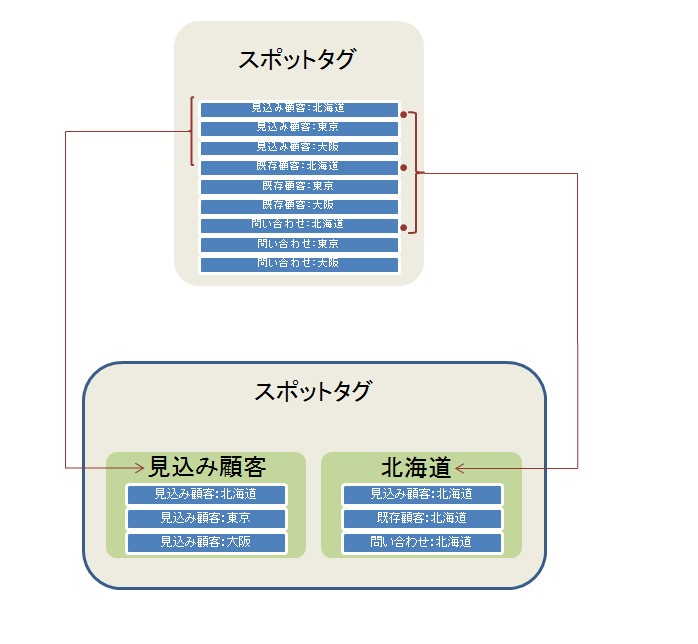
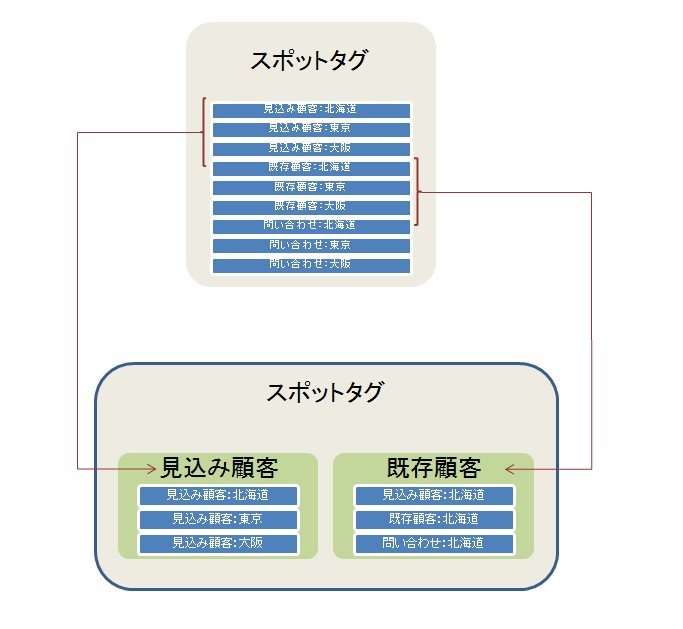
Fixed contents.

Changed region(s): [[0.0922, 0.0302, 0.8609, 0.9666], [0.3382, 0.0604, 0.5534, 0.1208], [0.7994, 0.3021, 0.8302, 0.3323]]

diff --git a/searchindex.js b/searchindex.js
@@ -1,1 +1,1 @@
-Search.setIndex({envversion:42,terms:{"\u5f62\u5f0f":1,"/android":[],"\u53cd\u6620":[1,5],"\u51fa\u6765":5,"\u30fb\u30e9\u30b8\u30aa\u30dc\u30bf\u30f3":5,"\u8a18\u5165":4,"\u30d2\u30c3\u30c8":3,"::":[],"\u6761\u4ef6":[1,5,4],alt:[],"\u3067\u3057":[1,3],"\u30bb\u30ad\u30e5\u30ea\u30c6\u30a3":4,"\u7aef\u672b":[2,1,5,4],"\u53d7\u4fe1":5,"\u901a\u77e5":[],"\u901a\u4fe1":[1,5,4],"\u4e00\u822c":[2,1,3,4,5],"\u30bb\u30c3\u30c8":1,"\u30aa\u30ec\u30f3\u30b8":1,"\u7a7a\u767d\u884c":4,"\u524a\u9664":[2,1,3,4,5],"\u3067\u304d":[2,1,3,4,5],"\u5e0c\u671b":2,"\u6700\u7d42":4,"\u9632\u3050":1,"\u4e0b\u66f8\u304d":5,"\u500b\u5225":[5,4],"\u524a\u6e1b":5,"\u8fbc\u307f":5,"\u73fe\u5834":2,"\u4ed5\u7d44\u307f":1,"\u6b63\u5e38":4,"\u77e2\u5370":5,"\u4e0d\u8db3":4,"\u4f11\u61a9":2,"\u30e1\u30fc\u30eb\u30a2\u30c9\u30ec\u30b9":5,"\u30a4\u30f3\u30b9\u30c8\u30fc\u30eb":5,"\u72b6\u6cc1":4,"\u30d5\u30a3\u30fc\u30c1\u30e3\u30fc":5,"\u78ba\u8a8d\u304f":1,"--":[2,1],"\u30ab\u30ec\u30f3\u30c0\u30fc":4,"\u30e1\u30cb\u30e5\u30fc":[1,3,4,5],"\u304a\u3088\u3073":[1,4],"\u5909\u308f\u308a":1,"\u81ea\u52d5\u66f4":1,"\u6b8b\u308a":3,"\u30d4\u30c3\u30ab\u30fc":4,"\u30aa\u30d7\u30b7\u30e7\u30f3":1,"\u5e83\u544a":4,"\u30d6\u30e9\u30a6\u30b6":[1,4],"\u884c\u3048\u308b":[],"\u89e3\u9664":[1,5,4],"\u304a\u3044":1,"\u7b87\u6240":[1,4],"\u5909\u308f\u3063":2,"\u88dc\u5b8c":4,"1\u53f0":2,"\u5b9f\u65bd":3,"\u7d4c\u904e":[1,4],"\u30bf\u30d6":[1,5],"\u542b\u307e\u308c":5,"\u6700\u65b0":[],"\u8a2a\u554f":[2,1,3],"\u30ad\u30e3\u30ea\u30a2":5,"\u81ea\u5b85":4,"\u30e1\u30fc\u30eb":4,"\u8fd1\u3044\u9806":3,"\u304a\u4f1d\u3048":1,"\u5224\u65ad":[5,4],"\u521d\u56de":5,"\u65b0csv":1,punch:[2,5],"\u55b6\u696d":[2,1],"\u9069\u7528":4,"\u7d0d\u54c1":2,"\u4fc3\u3057":3,"\u30a2\u30ab\u30a6\u30f3\u30c8":[2,5,4],"\u306b\u95a2\u3059\u308b":1,"\u30dc\u30bf\u30f3\u30a2\u30a4\u30b3\u30f3":5,"\u305a\u306b":4,"\u305a\u3064":1,"\u63d0\u4f9b":2,"\u629e\u72b6":4,"\u306b\u95a2\u3057":1,"\u300c\u79d2":1,"\u3067\u3082":[],"\u53d6\u5f97":[1,5,4],"\u30b9\u30e0\u30fc\u30ba":3,"\u64ec\u4f3c":5,"\u5411\u4e0a":4,"\u8d85\u3048":1,"\u5fd8\u308c":3,"\u30b7\u30e7\u30fc\u30c8\u30ab\u30c3\u30c8\u30dc\u30bf\u30f3":[5,4],"\u30c1\u30a7\u30c3\u30af\u30dc\u30c3\u30af\u30b9":5,"\u521d\u671f":[2,5,4],"\u30c7\u30b6\u30a4\u30f3":[1,4],"\u3057\u307e\u3063":[3,5],"\u9014\u4e2d":5,"\u30ed\u30b1\u30fc\u30b7\u30e7\u30f3":5,"\u5225\u753b":5,"\u65e5\u6642":1,"/groupsetting":[],"\u30de\u30c3\u30d7":5,"\u4ee5\u964d":[1,4],"\u30a2\u30cb\u30e1\u30fc\u30b7\u30e7\u30f3":5,"\u3057\u307e\u3057":[5,4],"\u5730\u70b9":[3,4,5],"\u305f\u304a\u77e5\u3089":1,"\u30b9\u30dd\u30c3\u30c8":[],"\u9023\u7d9a":4,"\u306b\u307e\u308c":4,"\u3057\u307e\u3046":[5,4],iphone:4,"\u3057\u307e\u3044":5,"\u30ab\u30b9\u30bf\u30de\u30fc\u30b5\u30fc\u30d3\u30b9":1,"\u60c5\u5831":[],"\u306a\u3089":[1,5],"\u30b7\u30e3\u30f3\u30d1\u30f3":5,"\u3059\u308b":[2,1,3,4,5],"\uff11\u30f6\u6708":4,"\u51e6\u7406":[1,5,4],"\u30c1\u30e5\u30fc\u30cb\u30f3\u30b0":4,"\u843d\u3061\u308b":5,"\u304a\u77e5\u3089\u305b":5,"\u3053\u3068":[2,1,5,4],"\u3053\u306e":5,"\u5225\u9014":[2,1],"\u30d5\u30c3\u30bf\u30fc":1,"\u4ed8\u8fd1":2,"\u30e6\u30fc\u30b6\u30fc\u30ed\u30b0\u30a4\u30f3id":[2,1],"\u5f79\u8077":5,"\u4ed5\u69d8":[3,4],"\u6709\u52b9":5,"\u62bc\u3057":4,"\u898b\u3084\u3059\u3044":1,"\u62bc\u3055":2,"\u306f\u3069":1,"\u4ee5\u4e0b":[1,3,4],"\u4ee5\u4e0a":4,"\u30a2\u30a4\u30b3\u30f3":[5,4],"\u884c\u308f":5,"\u30b3\u30d4\u30fc":1,"\u8d77\u52d5":[5,4],"\u3060\u3051":[2,3,5],"\u79fb\u52d5\u7dda":[1,5],"\u3044\u308b":[2,1,3,4,5],"\u7de8\u96c6":[2,1,3,4,5],"\u53e4\u3044":5,"\u30a2\u30af\u30c6\u30a3\u30d6":[2,5],"\u4e2d\u5fc3":[3,4,5],nexus:5,"\u30ab\u30ca":[1,3,4,5],"\u9032\u884c\u9806":[2,5],"\u30d4\u30f3":[1,5,4],"\u30af\u30e9\u30c3\u30b7\u30e5":[5,4],"\u9001\u4fe1":[1,5,4],"\u5206\u304b\u308b":1,"\uff11\u3064":[2,1],"\u30d1\u30d5\u30a9\u30fc\u30de\u30f3\u30b9":4,"\u958b\u767a":1,"\u4e00\u5b9a":[2,1,4],"\u3059\u3050":[3,5],"\u30d0\u30fc\u30b8\u30e7\u30f3\u30a2\u30c3\u30d7":[3,4,5],"\u30e1\u30f3\u30d0":1,"\u6301\u305f":2,"\u8aad\u3080":4,"\u884c\u3046":5,"\u884c\u3044":[1,5],"\u6301\u3064":2,"\u30b9\u30dd\u30c3\u30c8\u30ea\u30b9\u30c8":5,"\u540d\u524d":[3,5],"\u95a2\u9023":[2,5],"\u30fb\u30e1\u30f3\u30d0\u30fc":5,"\u3059\u3079":[2,5],"\u512a\u5148":3,"\u30ab\u30b9\u30bf\u30de\u30fc\u30b5\u30dd\u30fc\u30c8":2,"\u66f8\u4f5c":4,"\u3053\u308c":[1,3],"\u7121\u6599":5,"\u6b63\u78ba":1,csv:[],"\u7d42\u4e86":[2,5],"\u4e26\u3073\u9806":1,"\u518d\u8aad":5,"\u62d2\u5426":5,"\u96c6\u7d04":1,"\u6642\u9593":[2,1,4],"\u4e0b\u3055\u3044":1,"\u30cf\u30a4\u30d5\u30f3":5,"\u7d5e\u308a\u8fbc\u307f":5,"\u30a2\u30a4\u30c6\u30e0":5,"\u81ea\u52d5":[2,1,5,4],"\u6240\u5728":[1,3,4,5],"\u30da\u30fc\u30b8":1,"\u30c1\u30a7\u30c3\u30af\u30a4\u30f3":[],"\u901a\u5e38":[2,5],"\u30a4\u30f3\u30dd\u30fc\u30c8":1,"\u8a18\u61b6":1,"\u518d\u5165":4,"\u81ea\u793e":[2,1,5,4],"\u643a\u5e2f":4,"\u305f\u3057":[],"\u82f1\u8a9e":5,"\u30b9\u30dd\u30c3\u30c8\u30d4\u30f3":5,"\u305f\u304b":2,"\u5e83\u3052\u308b":1,"\u305f\u3044":3,"\u65b0ui":4,"\u6d88\u8cbb":2,"\u90f5\u4fbf":4,"\u30fb\u30fb\u30fb":3,"\uff11\u4ef6":1,"\u308c\u308b":[2,1,3,4,5],"\u30b9\u30af\u30ed\u30fc\u30eb":[5,4],"\u540c\u671f":[1,5,4],"\u96fb\u8a71":[3,4,5],"\u5834\u6240\u7121":5,"\u4f75\u305b":[5,4],"\u52d5\u4f5c":2,"\u5f53\u6a5f\u80fd":2,"\u30aa\u30d5\u30e9\u30a4\u30f3":[1,4],"\u5897\u3048":1,"\u6271\u3044":5,"\u30b9\u30c6\u30fc\u30bf\u30b9":[],"\u4e0d\u8981":4,"\u5168\u3066":5,"\u8d85\u3048\u308b":3,"\u7dcf\u79f0":2,gpspunch:2,"\u4e00\u3064":[2,1,5],"\u66f4\u65b0":[1,5,4],"_img":[],"\u3068\u3057\u3066":4,"\u597d\u304d":2,"\u518d\u691c":[5,4],"\u767b\u9332":[],"\u3053\u3061\u3089":1,"\u5897\u3084":[1,5],"\u3002\uff08":[1,5,4],"\u3002\uff09":[1,5,4],"\u30e9\u30d9\u30eb":4,"\u753b\u9762":[],"\u518d\u5ea6":5,"\u30d5\u30a1\u30a4\u30eb":1,"\u7e26\u306b":1,"\u6240\u5c5e":[2,1],"\u672a\u8a2d\u5b9a":1,"\u3042\u3044\u307e\u3044":1,"\u7def\u5ea6":1,"\u8a73\u7d30":[],"\u300cnull":5,"\u305f\u3060\u304d":[],"\u5927\u9805":1,"(new":1,"\u914d\u7f6e":1,"\u30b9\u30dd\u30c3\u30c8\u30bf\u30b0":[1,5,4],"\u5b58\u5728":[2,3,4,5],"\u73fe\u72b6":3,"\u5c02\u7528":2,"\u305f\u3089":[1,5],"\u30b7\u30e7\u30fc\u30c8\u30ab\u30c3\u30c8":5,"\u4eba\u6570":5,"\u305f\u3081":[1,3,5],"\u5730\u56f3\u4e0a":1,"\u30b3\u30fc\u30c9":[1,3],"\u9000\u52e4":[2,5],"\u66f8\u540d":5,"\u8a31\u5bb9":1,googlemapsapi:1,"\u4e00\u90e8":[1,5,4],"\u30ab\u30e1\u30e9\u30a2\u30a4\u30b3\u30f3":5,"\u975e\u8868":[1,4],"\u53ef\u80fd":[2,1,3,4,5],"\u30bf\u30a4\u30e0\u30be\u30fc\u30f3":[5,4],"\u30b5\u30a4\u30c8":[],nodata:5,"\u30eb\u30fc\u30c8":[2,1,5,4],"\u8aa4\u5dee":4,"\u66f8\u7de8":4,"\u30d6\u30eb\u30fc":5,"1\u30a2\u30ab\u30a6\u30f3\u30c8":2,"\u8aac\u660e":1,"\u4e00\u610f":2,"\u7d71\u4e00":5,"\u975e\u540c":1,"\u30ed\u30b0\u30a2\u30a6\u30c8":[1,5],"\u30e9\u30f3\u30c9\u30de\u30fc\u30af":[3,4,5],"\u9078\u3073":3,"\u30d5\u30a9\u30c8\u30e9\u30a4\u30d6\u30e9\u30ea":4,"\u78ba\u8a8d":[3,4,5],"\u30b5\u30dd\u30fc\u30c8":2,"\u5f85\u3064":1,"\u4fee\u6b63":[],"\u5207\u308a":[5,4],"\u53f3\u6a2a":1,"\u884c\u52d5":[2,1,5,4],"\u30b7\u30f3\u30b0\u30eb\u30b3\u30fc\u30c6\u30fc\u30b7\u30e7\u30f3":1,"\u8aad\u307f\u8fbc\u3081":4,"\u8a2d\u5b9a":[],gps:[5,4],"\u306a\u304a":1,"\u7d10\u3065\u3051\u308b":2,"\u958b\u3044":4,"\u308c\u307e\u305b":4,"\u901f\u5ea6":1,"\u305d\u306e\u5f8c":5,"\u3069\u3061\u3089\u304b":1,"\u304b\u307e":1,"\u307e\u304f\u3044\u304b":5,"\u65b0\u898f\u767b":4,ipad:4,"\u89e3\u6d88":1,aaa:[],"\u7a7a\u767d":1,"12\u6708":1,"\u9078\u629e":[],"\u9593\u9694":[2,5],"\u5831\u544a\u66f8":[],"\u8a18\u9332":[2,1,5,4],"\u7d50\u3070":2,"\u72b6\u614b":[1,3,4],"\u4e0a\u8a18":[1,3,5],"\u66ff\u308f\u3089":5,"\u8a72\u5f53":3,"\u4e00\u898b":5,"\u30a8\u30e9\u30fc":[1,5,4],"\u3044\u305f":1,"\u30c8\u30c3\u30d7\u30da\u30fc\u30b8":1,"\u5730\u540d":3,"\u5834\u5408":[],"\u5e83\u3052":1,"null":4,"\u304b\u3069\u3046":[2,1,3,4],"\u30ea\u30b9\u30c8":[1,5,4],"\u307e\u3067":[2,1,3,4,5],"\u307e\u3059":[],"\u307e\u305b":[2,1,3],"\u4e00\u89a7":[],"\u66f8\u7d4c":4,"\u307e\u305f":[1,5,4],"\u304b\u3089":[],"\u767b\u8a18":4,"\u307e\u3057":[1,3,4,5],"\u7279\u5b9a":[2,5,4],"\u30b9\u30dd\u30c3\u30c8\u30a4\u30f3\u30dd\u30fc\u30c8":1,"\u5927\u5909":5,"\u30db\u30fc\u30e0\u30a2\u30a4\u30b3\u30f3":[],"\u30d0\u30c3\u30af\u30b0\u30e9\u30a6\u30f3\u30c9":[1,4],"\u51fa\u529b":[1,3],"\u6a5f\u80fd":[],"\u30a2\u30c3\u30d7\u30c7\u30fc\u30c8":[],"\u3089\u308c":5,"\u3060\u3055\u3044":[2,1,3,5],"\u5408\u308f\u305b":2,"\u5f53\u65e5":1,"\u9577\u3044":[5,4],"\u79fb\u52d5":[2,5,4],url:[5,4],"\u96fb\u91cf":2,"\u30b9\u30da\u30fc\u30b9":1,"\u5d29\u308c\u308b":4,"\u30a8\u30e9\u30fc\u30e1\u30c3\u30bb\u30fc\u30b8":5,"\u767a\u751f":5,"\u624b\u52d5":4,"\u64ae\u5f71":5,"\u30aa\u30fc\u30d0\u30fc":5,"\u305d\u306e\u9593":1,"\u672b\u5c3e":1,"\u30b9\u30dd\u30c3\u30c8\u30bf\u30b0\u30b0\u30eb\u30fc\u30d7":1,"\u672a\u5831":4,"\u5fc5\u9808":[5,4],"\u30b9\u30bf\u30c3\u30d5":2,"\u30ab\u30e1\u30e9":5,"\u3057\u304b":[2,3],"\u30de\u30eb\u30c1\u30a2\u30ab\u30a6\u30f3\u30c8":[2,5,4],"\u6210\u529f":4,"\u4ef6\u6570":1,"\u62c5\u5f53\u8005":[2,1,5,4],"\u4e00\u822c\u6a29\u9650":4,"\u73fe\u8c61":5,"\u8ffd\u52a0":[2,1,3,4,5],"\u3057\u305f":1,"\u5bfe\u8c61":[1,3],"\u5206\u3051":5,"\u3057\u3066":5,"\u30db\u30fc\u30e0":[3,4,5],"\u6700\u5927":[3,4,5],"\u30bf\u30a4\u30c8\u30eb":5,"\u6642\u306b":2,"\u306a\u308c":2,"\u201d&":4,"\u30c6\u30ad\u30b9\u30c8\u30d5\u30a3\u30fc\u30eb\u30c9":5,"\u306a\u308a":[],"\u306a\u308b":[1,5],"\u306b\u307e\u3068\u3081\u308b":1,"\u65b9\u6cd5":[1,3,5],"\u3092\u3054":1,"\u5206\u304b\u308a":1,"\u30c9\u30c3\u30c8":5,"\u5165\u308c":1,"\u3055\u3089\u306b":1,"\u30fb\u30e1\u30fc\u30eb":4,"\u30d7\u30c3\u30b7\u30e5":5,"\u4eca\u5f8c":3,"\u672a\u8aad":5,"\u624b\u6570":5,"\u305a\u307e\u3068\u3081\u3066":1,"\u62c5\u5f53":[2,1,5,4],"\u53c2\u52a0":[2,5],"\u7121\u3044":4,"\u5229\u7528":[],"\u6c7a\u3081":2,"\u7d50\u679c":[1,3,5],"\u6210\u6642":4,"\u898b\u308b":1,"\u30bf\u30a4\u30d7":1,"\u623b\u308b":[5,4],"\u64cd\u4f5c":[],"\u524d\u56de":4,"\u3064\u3051":5,"\u76ee\u4ee5\u964d":[5,4],"\u540d\u6761":5,"\u8ecc\u8de1":2,"\u4e0b\u90e8":3,"\u5b8c\u4e86":[1,5],"\uff08\u4f8b":[],"\u554f\u3044\u5408\u308f":2,"\u66f8\u8a73":4,"\u65b0\u898f":2,"\u5f93\u6765":[2,1,3],"\u7d39\u4ecb":5,"\u306b\u3064\u3044\u3066":[1,3],"\u4e00\u5ea6":4,"\u7ba1\u7406":[],"\u4f01\u696d":[2,5],"\u3067\u3057\u304b":5,"\u65e5\u4ed8":[1,4],ui:[1,4],"\u305d\u306e":[3,5],"\u7bc4\u56f2":[2,1,3,5],"\u30c0\u30a4\u30a2\u30ed\u30b0":5,"\u914d\u616e":1,"\u50ac\u4fc3":5,"\u66f8\u8a2d":1,"\u76f4\u8fd1":1,"\u4f4d\u7f6e":[],"\u610f\u898b":1,"\u3057\u306a\u304c\u3089":1,"\u3057\u3088":[1,5,4],"\u30b5\u30fc\u30d0\u30fc":5,"\u306a\u3069":[2,1],"\u304a\u308a":3,"\u534a\u5f84":[2,5],"\u500b\u4eba":4,"\u30bf\u30b0":1,"\u696d\u52d9":[2,1],"\u306a\u3063":[2,1,3,5],"\u5206\u5272":1,"\u77e5\u3089":1,img:[],"\u5165\u3063":1,"\u7686\u3055\u307e":3,"\u91d1\u984d":1,"\u306a\u3057":[1,3],"\u4e00\u76ee":1,"\u904e\u53bb":[1,5],"\u30ea\u30e2\u30fc\u30c8":3,"\u88dc\u6b63":4,"\u3068\u307b\u307c":4,"\u306a\u3044":[2,1,5,4],"\u628a\u63e1":2,"\u540c\u69d8":[1,3,5],"\u6b21\u56de":1,"\u6253\u523b":[2,1,3,4,5],"\u4eca\u56de":[1,5,4],"\u5931\u6557":[5,4],"\u533a\u5225":1,"\u4fdd\u5b58":5,"\u3002gps":2,"\u6df7\u5728":3,"\u671f\u5f8c":4,"\u66ff\u3048\u308b":5,"\u4ee5\u524d":[5,4],"\u6d88\u53bb":5,"\u66f8\u6bce":1,"\u30e1\u30e2\u30ea":4,"\u30ec\u30a4\u30a2\u30a6\u30c8":[1,5,4],"\u3068\u3044\u3046":[1,5],"\u7e2e\u5c3a":4,"\u95b2\u89a7":[],")\u300d":[5,4],figure:[],"\u753b\u50cf":[1,3,5],"\u521d\u671f\u5024":1,"\u30d1\u30b9\u30ef\u30fc\u30c9":[5,4],"\u30d5\u30a9\u30fc\u30de\u30c3\u30c8":[],applemap:4,"\u51fa\u52e4\u524d":2,"\u30ba\u30fc\u30e0\u30ec\u30d9\u30eb":5,"\u4ef6\u76ee":1,"\u8981\u671b":1,"\u9077\u79fb":[5,4],"\u672a\u9001\u4fe1":5,"\u554f\u984c":[1,5,4],"\u4e8b\u4f8b":5,"\u5168\u4f53":1,align:[],"\u6700\u9069":5,"\u30bf\u30c3\u30d7":[3,4,5],"\u4f4f\u6240":[1,5,4],"\u5236\u9650":[2,1,5,4],"\u691c\u7d22":[],"\u5165\u529b":[],"|homeicon":[],"\u7c21\u6613":5,"\u540c\u3058":[1,3,4,5],"\u3084\u3059\u304f\u3057":1,"\u5199\u771f":[1,5,4],"\u305b\u304f":2,"\u51fa\u52e4":[2,4],"\u4e00\u4f8b":[],"\u4f7f\u3048\u308b":1,"\u5fc5\u8981":[1,3],"\u5168\u9078":1,jpg:[],"\u30b8\u30aa\u30b3\u30fc\u30c7\u30a3\u30f3\u30b0":5,"\u76f4\u524d":1,googlemapssdk:4,"\u3069\u306e":2,"\u30bf\u30a4\u30df\u30f3\u30b0":[2,3,4],"\u5c65\u6b74":[2,1,3,4,5],id:2,"\u6628\u65e5":4,"\u52b9\u304b":4,"\u30aa\u30d5":5,"\u91cd\u306a\u3063":5,"\u3002)":5,"\u30b9\u30dd\u30c3\u30c8\u30b3\u30fc\u30c9":[5,4],"\u30b0\u30eb\u30fc\u30d7\u30b3\u30fc\u30c9":1,"\u306a\u304f":[2,1,3,5],"\u30aa\u30f3":[2,5],"\u5951\u7d04":[1,5],"\u30a2\u30d7\u30ea":[],"\u4e0d\u5177\u5408":[],"\u30ad\u30fc\u30ef\u30fc\u30c9":3,"\u3069\u3046":2,"\u8005\u540d":5,"\u5b89\u5b9a":4,"\u30e2\u30fc\u30c9":[2,5,4],"\u30fb\u6240\u5728\u5730":4,"\u306b\u3088\u3063\u3066":4,ios:[],"\u306b\u3088\u3089":3,"\u306b\u3088\u308a":[2,1],"\u53c2\u7167":[1,5,4],"\u7d4c\u7531":4,"\u8b66\u544a":1,"\u5834\u6240":[5,4],"\u7167\u6e96":5,"\u305d\u3057\u3066":5,"\u30b9\u30bf\u30a4\u30eb":5,"\u7d10\u4ed8":5,"\u5b89\u5b9a\u6027":4,"\u30b0\u30eb\u30fc\u30d7":[],"\u5404\u7a2e":1,"\u3084\u3059\u304f":[1,3],"\u30b1\u30fc\u30b9":[1,4],"\u30d5\u30a9\u30eb\u30c0":1,"\u6700\u5f8c":1,"\u8868\u793a":[2,1,3,4,5],"\u624b\u6301\u3061":[],"\u898b\u3048":5,googlemaps:[5,4],"\u904b\u7528":3,"\u81ea\u7531":1,"\u5b9a\u6642":2,"\u30ed\u30b8\u30c3\u30af":5,"\u30e9\u30b8\u30aa\u30dc\u30bf\u30f3\u30d5\u30a3\u30fc\u30eb\u30c9":5,"\u7121\u5236":4,"\u5171\u6709":2,"\u8efd\u5fae":[1,5],"\u3067\u304d\u308b":[],web:5,"\u4e92\u63db\u6027":4,"\u4f5c\u6210":[2,1,3,4,5],"\u958b\u59cb":[2,5],"\u30bd\u30fc\u30c8":[1,5,4],"\u898b\u8fbc\u307f":1,"\u64a4\u5ec3":3,"\u56de\u7d5e\u308a\u8fbc\u307f":5,"\u63a2\u3057":3,"\u7d4c\u8def":[3,4],app:4,"\u7d10\u3065\u304f":1,"\u3064\u3051\u308b":[],"\u7d4c\u5ea6":1,"\u542b\u3081":[1,5],"\u7c21\u7565":[1,3],"\u3060\u3044":1,"\u4f01\u696d\u6bce":2,"\u30c7\u30d0\u30a4\u30b9\u30c8\u30fc\u30af\u30f3":4,"\u756a\u53f7":[3,4,5],"\u304f\u3060":5,"\u30d0\u30ca\u30fc":1,"\u30d0\u30c3\u30af\u30ad\u30fc":5,"1\u90e8":1,"\u62bd\u51fa":1,"\u544a\u4e00":4,"\u30d0\u30c3\u30b8":5,"\u7701\u96fb\u91cf":[2,5,4],seekbar:5,"\u307e\u3068\u3081\u308b":1,"\u691c\u7d22\u5f8c":1,"\u30dd\u30c3\u30d7\u30a2\u30c3\u30d7":1,"\u6587\u5b57\u6570":5,"\u6b63\u3057\u304f":[1,5,4],"\u4ed5\u7d44":3,"\u4ee5\u5916":[5,4],"6plus":4,"\u30c7\u30d5\u30a9\u30eb\u30c8":[1,5,4],"\u306a\u304b\u3063":[1,3,5],"\u4e8b\u8c61":[5,4],"\u672a\u9078":[5,4],"\u6975\u529b":1,"\u307e\u3068\u3081\u3066":[1,5,4],"\u30a8\u30ea\u30a2":1,"\u30d0\u30fc":5,"\u30b7\u30b9\u30c6\u30e0":[2,1],".jpg":[],"\u521d\u3081":4,"\u904b\u55b6":1,"\u4f7f\u7528":[2,5,4],"\u9332\u5f8c":4,"\u30b3\u30e1\u30f3\u30c8":[1,3,4,5],scale:[],"\u304f\u308b":1,"\u8a73\u3057\u304f":1,"\u96e2\u308c":3,"\u8aad\u307f\u8fbc\u307f":[5,4],"\u30dc\u30bf\u30f3":[2,3,4,5],"\u69cb\u6210":5,"\u542b\u307e":5,"\u7d5e\u308a\u8fbc\u3080":[5,4],"\u30d0\u30b0":1,"\u57fa\u304d":1,"\u3042\u308c":[5,4],"\u306f\u3046":5,"\u3001\u300c":[1,5,4],"\u3042\u308a":[1,3,4,5],"\u3042\u308b":[2,1,5,4],"\u5f37\u5236":5,"\u6d88\u3048":5,"\u30b5\u30fc\u30d3\u30b9":5,"\u52e4\u52d9\u5148":4,"\u518d\u65b0":4,"\u6587\u8a00":[2,5],"\u30e1\u30f3\u30d0\u30fc":[2,1,5,4],"\u308f\u304b\u308b":1,"\u5168\u54e1":2,"\u6319\u52d5":[1,5],"\u9055\u3063":5,"\u624b\u9806":[1,3,5],"\u4e0b\u8a18":[3,5],"\u30c1\u30a7\u30c3\u30af":[1,5],"\u4ee5\u5185":2,"\u30e6\u30fc\u30b6\u30fc":[],"\u6b63\u3057\u3044":5,"\u5e30\u3063":1,"\u5185\u5bb9":5,"\u70b9\u691c":2,"\u5909\u66f4\u70b9":1,"\u3055\u3044":5,"\u6642\u523b":1,"\u9867\u5ba2":[2,1,3,4,5],"\u3057\u307e\u3059":3,"\u6570\u5b57":5,"\u6271\u3048":1,"\u4f55\u4eba":1,image:[],"\u8abf\u6574":[5,4],"\u3068\u3081\u3066":1,"\u898b\u308c\u308b":5,"\u3088\u308a":[1,5,4],"\u53f3\u4e0a":5,"\u9023\u7d61\u304f":2,"_homeicon":[],"\u5831\u544a":[],"\u554f\u3044\u5408\u308f\u305b":1,"\u6700\u521d":3,"\u9805\u76ee":[2,1,5,4],"..":[],"\u8907\u6570":[2,1,5],"\u9055\u3044":3,"\u7a2e\u5225":[2,1,5,4],"\u30d0\u30fc\u30b8\u30e7\u30f3":[3,4,5],"\u53ce\u307e\u308b":1,"\u306b\u3064\u3051\u308b":1,"\u521d\u671f\u8a2d":2,"\u30d5\u30ea\u30fc\u30ba":[5,4],"\u6291\u3048":2,"\u51fa\u3057":2,"\u62bc\u4e0b":[5,4],"\u30a2\u30e9\u30fc\u30c8":4,"\u30da\u30fc\u30b9\u30c8":1,"\u8a18\u8f09":1,"\u901a\u308a":1,"\u756a\u5730":4,"\u8a2d\u3051\u308b":2,"\u73fe\u5728":[1,3,4,5],"\u65b0\u8868\u793a":1,"\u5b9a\u671f":2,"\u534a\u89d2":1,"\u30e6\u30fc\u30b6\u30fc\u30b3\u30fc\u30c9":1,"\u30fb\u5168":1,"\u5730\u56f3":[2,1,3,4,5],"\u8868\u3059":1,"\u5165\u308b":[1,5],"\u5165\u308a":3,"\u306b\u5bfe\u3057":[2,5],"\u3068\u3057":[1,5],"\u3068\u3048":1,"\u30ed\u30b0\u30a4\u30f3":[2,1,5],"\u52d5\u304b":5,"\u66ff\u3048":[5,4],"\u8aad\u8fbc":5,"\u30e1\u30c3\u30bb\u30fc\u30b8":[1,5],"\u304a\u77e5\u3089":1,"\u5916\u3057":1,"\u9032\u3081":1,"\u6587\u5b57":[1,5,4],"\u8abf\u3079\u308b":1,"\u6c7a\u3081\u308b":2,"\u3060\u3063":5,"\u5099\u8003":[5,4],"\u3082\u3057\u304f":1,"\u52e4\u6020":1,"\u70b9\u7dda":4,"\u30e9\u30b8\u30aa\u30dc\u30bf\u30f3":5,"\u3054\u3068":1,"\u672a\u5165":4,"\u4f5c\u308a":1,"\u3054\u89a7\u304f":5,"\u30de\u30fc\u30af":5,"\u3059\u308c":3,"\u5f0a\u793e":[2,1],"\u305f\u3060\u3057":1,"\u5bfe\u5fdc":3,"\u7570\u306a\u308b":5,"\u7570\u306a\u308a":[2,3],"\u30b0\u30eb\u30fc\u30d7id":2,"\u4f1a\u793e":1,"\u672c\u6a5f\u80fd":3,"\u6574\u5408":1,"\u30cd\u30c3\u30c8\u30ef\u30fc\u30af":5,"\u306e\u307f":[2,1,5,4],"\u544a\u77e5":1,"\u5ba2\u69d8":[2,1],"\u3067\u3059":[2,1,3,5],"\u4ed8\u3051\u308b":2,"\u5439\u304d\u51fa\u3057":1,"\u4e00\u81f4":3,"\u30c7\u30fc\u30bf":[1,3,4,5],center:[],"\u4e0a\u9650":[1,5],"\u6307\u5b9a":[1,5,4],"\u30d5\u30a9\u30fc\u30ab\u30b9":5,"\u30ab\u30e9\u30fc\u30e9\u30d9\u30eb":1,"\u65b0\u3057\u3044":[1,5,4],"\u30c8\u30e9\u30c3\u30ad\u30f3\u30b0\u30c7\u30fc\u30bf":5,"\u305b\u308b":1,"\u5927\u304d\u304f":5,"\u3069\u304a\u308a":1,"\u3088\u3046":[],"\u30b5\u30fc\u30d0":4,"\u300d\u3001":[5,4],"\u5b9a\u7fa9":2,"\u300d\u300c":[2,3,4,5],"\u3059\u3079\u3066":2,"\u5f37\u5316":[],"5km":5,"\u30de\u30fc\u30ab\u30fc":5,"\u66f8\u691c":5,"\u5206\u5439":2,"\u307b\u304b":2,"\u4fdd\u6301":[1,5],"\u9078\u3079\u308b":1,"\u4ed6\u8efd":5,"\u6a29\u9650":[]},objtypes:{},objnames:{},filenames:["index","web","glossary","newFeature","ios","android"],titles:["\u30ea\u30ea\u30fc\u30b9\u30ce\u30fc\u30c8","\u7ba1\u7406\u30b5\u30a4\u30c8","\u7528\u8a9e\u96c6","\u6700\u65b0\u60c5\u5831","iOS","Android"],objects:{},titleterms:{"\u4e88\u5b9a":1,"\u767b\u9332":1,"\u4fee\u6b63":1,"\u5168\u822c":1,"\u30c0\u30a6\u30f3\u30ed\u30fc\u30c9":1,"\u753b\u9762":3,"\u7d30\u5206":3,"\u5834\u5408":3,"\u5831\u544a":[1,3],"2\u6708":[],"\u30a2\u30c3\u30d7\u30c7\u30fc\u30c8":5,"\u3067\u304d\u308b":3,"\u307e\u3059":3,"\u6a5f\u80fd":3,ver:[1,5,4],"\u30b9\u30dd\u30c3\u30c8a":3,"\u30b9\u30dd\u30c3\u30c8b":3,"\u7ba1\u7406":1,"\u901a\u77e5":1,"\u304b\u3089":3,"\u8a73\u7d30":3,"\u5909\u66f4":[1,3,4,5],"\u30b9\u30dd\u30c3\u30c8":[1,3],"\u4e2d\u65ec":[],"\u6700\u65b0":3,"\u95b2\u89a7":1,"\u6ce8\u610f":[3,5],"\u306a\u308a":3,"\u691c\u7d22":3,android:5,csv:1,"\u60c5\u5831":[1,3],"\u30ea\u30ea\u30fc\u30b9":1,"\u30d5\u30a3\u30fc\u30eb\u30c9":1,"\u30d5\u30a9\u30fc\u30de\u30c3\u30c8":1,"\u30ea\u30ea\u30fc\u30b9\u30ce\u30fc\u30c8":0,"\u4f4d\u7f6e":1,ios:4,"\u516c\u958b":1,"\u904b\u7528\u4e0a":3,"3\u6708":1,"\u30b9\u30c6\u30fc\u30bf\u30b9":1,"\u64cd\u4f5c":3,"\u3088\u3046":3,"\u30a2\u30d7\u30ea":3,"\u30d5\u30a9\u30fc\u30e0":3,"\u8a2d\u5b9a":1,"\u4e0d\u5177\u5408":1,"\u672b\u65e5":1,"\u4ed5\u69d8":1,"\u5229\u7528":3,"\u6a29\u9650":3,"\u30e6\u30fc\u30b6\u30fc":1,"\u6539\u5584":[1,3,4,5],"\u4e00\u62ec":1,"\u5831\u544a\u66f8":1,"\u5f37\u5316":3,"\u30c1\u30a7\u30c3\u30af\u30a4\u30f3":3,"\u9078\u629e":3,"\u3067\u3082":3,"\u5165\u529b":3,"\u7528\u8a9e\u96c6":2,"\u4e00\u89a7":1,"\u30b5\u30a4\u30c8":1,"\u30b7\u30fc\u30f3":3,"\u30b0\u30eb\u30fc\u30d7":1}})
+Search.setIndex({envversion:42,terms:{"\u5f62\u5f0f":1,"/android":[],"\u53cd\u6620":[1,5],"\u51fa\u6765":5,"\u30fb\u30e9\u30b8\u30aa\u30dc\u30bf\u30f3":5,"\u8a18\u5165":4,"\u30d2\u30c3\u30c8":3,"::":[],"\u6761\u4ef6":[1,5,4],alt:[],"\u3067\u3057":[1,3],"\u30bb\u30ad\u30e5\u30ea\u30c6\u30a3":4,"\u7aef\u672b":[2,1,5,4],"\u53d7\u4fe1":5,"\u901a\u77e5":[],"\u901a\u4fe1":[1,5,4],"\u4e00\u822c":[2,1,3,4,5],"\u30bb\u30c3\u30c8":1,"\u30aa\u30ec\u30f3\u30b8":1,"\u7a7a\u767d\u884c":4,"\u524a\u9664":[2,1,3,4,5],"\u3067\u304d":[2,1,3,4,5],"\u5e0c\u671b":2,"\u6700\u7d42":4,"\u9632\u3050":1,"\u4e0b\u66f8\u304d":5,"\u500b\u5225":[5,4],"\u524a\u6e1b":5,"\u8fbc\u307f":5,"\u73fe\u5834":2,"\u4ed5\u7d44\u307f":1,"\u6b63\u5e38":4,"\u77e2\u5370":5,"\u4e0d\u8db3":4,"\u4f11\u61a9":2,"\u30e1\u30fc\u30eb\u30a2\u30c9\u30ec\u30b9":5,"\u30a4\u30f3\u30b9\u30c8\u30fc\u30eb":5,"\u72b6\u6cc1":4,"\u30d5\u30a3\u30fc\u30c1\u30e3\u30fc":5,"\u78ba\u8a8d\u304f":1,"--":[2,1],"\u30ab\u30ec\u30f3\u30c0\u30fc":4,"\u30e1\u30cb\u30e5\u30fc":[1,3,4,5],"\u304a\u3088\u3073":[1,4],"\u5909\u308f\u308a":1,"\u81ea\u52d5\u66f4":1,"\u6b8b\u308a":3,"\u30d4\u30c3\u30ab\u30fc":4,"\u30aa\u30d7\u30b7\u30e7\u30f3":1,"\u5e83\u544a":4,"\u30d6\u30e9\u30a6\u30b6":[1,4],"\u884c\u3048\u308b":[],"\u89e3\u9664":[1,5,4],"\u304a\u3044":1,"\u7b87\u6240":[1,4],"\u5909\u308f\u3063":2,"\u88dc\u5b8c":4,"1\u53f0":2,"\u5b9f\u65bd":3,"\u7d4c\u904e":[1,4],"\u30bf\u30d6":[1,5],"\u542b\u307e\u308c":5,"\u6700\u65b0":[],"\u8a2a\u554f":[2,1,3],"\u30ad\u30e3\u30ea\u30a2":5,"\u81ea\u5b85":4,"\u30e1\u30fc\u30eb":4,"\u8fd1\u3044\u9806":3,"\u304a\u4f1d\u3048":1,"\u5224\u65ad":[5,4],"\u521d\u56de":5,"\u65b0csv":1,punch:[2,5],"\u55b6\u696d":[2,1],"\u9069\u7528":4,"\u7d0d\u54c1":2,"\u4fc3\u3057":3,"\u30a2\u30ab\u30a6\u30f3\u30c8":[2,5,4],"\u306b\u95a2\u3059\u308b":1,"\u30dc\u30bf\u30f3\u30a2\u30a4\u30b3\u30f3":5,"\u305a\u306b":4,"\u305a\u3064":1,"\u63d0\u4f9b":2,"\u30b9\u30dd\u30c3\u30c8\u30a4\u30f3\u30dd\u30fc\u30c8":1,"\u629e\u72b6":4,"\u306b\u95a2\u3057":1,"\u300c\u79d2":1,"\u3067\u3082":[],"\u53d6\u5f97":[1,5,4],"\u30b9\u30e0\u30fc\u30ba":3,"\u64ec\u4f3c":5,"\u5411\u4e0a":4,"\u8d85\u3048":1,"\u5fd8\u308c":3,"\u30b7\u30e7\u30fc\u30c8\u30ab\u30c3\u30c8\u30dc\u30bf\u30f3":[5,4],"\u30c1\u30a7\u30c3\u30af\u30dc\u30c3\u30af\u30b9":5,"\u521d\u671f":[2,5,4],"\u30c7\u30b6\u30a4\u30f3":[1,4],"\u3057\u307e\u3063":[3,5],"\u9014\u4e2d":5,"\u30ed\u30b1\u30fc\u30b7\u30e7\u30f3":5,"\u5225\u753b":5,"\u65e5\u6642":1,"/groupsetting":[],"\u30de\u30c3\u30d7":5,"\u4ee5\u964d":[1,4],"\u30a2\u30cb\u30e1\u30fc\u30b7\u30e7\u30f3":5,"\u3057\u307e\u3057":[5,4],"\u5730\u70b9":[3,4,5],"\u305f\u304a\u77e5\u3089":1,"\u30b9\u30dd\u30c3\u30c8":[],"\u9023\u7d9a":4,"\u306b\u307e\u308c":4,"\u3057\u307e\u3046":[5,4],iphone:4,"\u3057\u307e\u3044":5,"\u30ab\u30b9\u30bf\u30de\u30fc\u30b5\u30fc\u30d3\u30b9":1,"\u60c5\u5831":[],"\u306a\u3089":[1,5],"\u30b7\u30e3\u30f3\u30d1\u30f3":5,"\u3059\u308b":[2,1,3,4,5],"\uff11\u30f6\u6708":4,"\u51e6\u7406":[1,5,4],"\u30c1\u30e5\u30fc\u30cb\u30f3\u30b0":4,"\u843d\u3061\u308b":5,"\u304a\u77e5\u3089\u305b":5,"\u3053\u3068":[2,1,5,4],"\u3053\u306e":5,"\u5225\u9014":[2,1],"\u30d5\u30c3\u30bf\u30fc":1,"\u4ed8\u8fd1":2,"\u30e6\u30fc\u30b6\u30fc\u30ed\u30b0\u30a4\u30f3id":[2,1],"\u5f79\u8077":5,"\u4ed5\u69d8":[3,4],"\u6709\u52b9":5,"\u62bc\u3057":4,"\u898b\u3084\u3059\u3044":1,"\u62bc\u3055":2,"\u306f\u3069":1,"\u4ee5\u4e0b":[1,3,4],"\u4ee5\u4e0a":4,"\u30a2\u30a4\u30b3\u30f3":[5,4],"\u884c\u308f":5,"\u30b3\u30d4\u30fc":1,"\u8d77\u52d5":[5,4],"\u3060\u3051":[2,3,5],"\u79fb\u52d5\u7dda":[1,5],"\u3044\u308b":[2,1,3,4,5],"\u7de8\u96c6":[2,1,3,4,5],"\u53e4\u3044":5,"\u30a2\u30af\u30c6\u30a3\u30d6":[2,5],"\u4e2d\u5fc3":[3,4,5],nexus:5,"\u30ab\u30ca":[1,3,4,5],"\u9032\u884c\u9806":[2,5],"\u30d4\u30f3":[1,5,4],"\u30af\u30e9\u30c3\u30b7\u30e5":[5,4],"\u9001\u4fe1":[1,5,4],"\u5206\u304b\u308b":1,"\uff11\u3064":[2,1],"\u30d1\u30d5\u30a9\u30fc\u30de\u30f3\u30b9":4,"\u958b\u767a":1,"\u4e00\u5b9a":[2,1,4],"\u3059\u3050":[3,5],"\u30d0\u30fc\u30b8\u30e7\u30f3\u30a2\u30c3\u30d7":[3,4,5],"\u30e1\u30f3\u30d0":1,"\u6301\u305f":2,"\u8aad\u3080":4,"\u884c\u3046":5,"\u884c\u3044":[1,5],"\u6301\u3064":2,"\u30b9\u30dd\u30c3\u30c8\u30ea\u30b9\u30c8":5,"\u540d\u524d":[3,5],"\u95a2\u9023":[2,5],"\u30fb\u30e1\u30f3\u30d0\u30fc":5,"\u3059\u3079":[2,5],"\u512a\u5148":3,"\u30ab\u30b9\u30bf\u30de\u30fc\u30b5\u30dd\u30fc\u30c8":2,"\u66f8\u4f5c":4,"\u3053\u308c":[1,3],"\u7121\u6599":5,"\u6b63\u78ba":1,csv:[],"\u7d42\u4e86":[2,5],"\u4e26\u3073\u9806":1,"\u518d\u8aad":5,"\u62d2\u5426":5,"\u96c6\u7d04":1,"\u6642\u9593":[2,1,4],"\u4e0b\u3055\u3044":1,"\u30cf\u30a4\u30d5\u30f3":5,"\u7d5e\u308a\u8fbc\u307f":5,"\u30a2\u30a4\u30c6\u30e0":5,"\u81ea\u52d5":[2,1,5,4],"\u6240\u5728":[1,3,4,5],"\u30da\u30fc\u30b8":1,"\u30c1\u30a7\u30c3\u30af\u30a4\u30f3":[],"\u901a\u5e38":[2,5],"\u30a4\u30f3\u30dd\u30fc\u30c8":1,"\u8a18\u61b6":1,"\u518d\u5165":4,"\u81ea\u793e":[2,1,5,4],"\u643a\u5e2f":4,"\u305f\u3057":[],"\u82f1\u8a9e":5,"\u30b9\u30dd\u30c3\u30c8\u30d4\u30f3":5,"\u305f\u304b":2,"\u5e83\u3052\u308b":1,"\u305f\u3044":3,"\u65b0ui":4,"\u6d88\u8cbb":2,"\u90f5\u4fbf":4,"\u30fb\u30fb\u30fb":3,"\uff11\u4ef6":1,"\u308c\u308b":[2,1,3,4,5],"\u30b9\u30af\u30ed\u30fc\u30eb":[5,4],"\u540c\u671f":[1,5,4],"\u96fb\u8a71":[3,4,5],"\u5834\u6240\u7121":5,"\u4f75\u305b":[5,4],"\u52d5\u4f5c":2,"\u542b\u3081\u308b":1,"\u5f53\u6a5f\u80fd":2,"\u30aa\u30d5\u30e9\u30a4\u30f3":[1,4],"\u5897\u3048":1,"\u6271\u3044":5,"\u30b9\u30c6\u30fc\u30bf\u30b9":[],"\u4e0d\u8981":4,"\u5168\u3066":5,"\u8d85\u3048\u308b":3,"\u7dcf\u79f0":2,gpspunch:2,"\u4e00\u3064":[2,1,5],"\u66f4\u65b0":[1,5,4],"_img":[],"\u3068\u3057\u3066":4,"\u597d\u304d":2,"\u518d\u691c":[5,4],"\u767b\u9332":[],"\u3053\u3061\u3089":1,"\u5897\u3084":[1,5],"\u3002\uff08":[1,5,4],"\u3002\uff09":[1,5,4],"\u30e9\u30d9\u30eb":4,"\u753b\u9762":[],"\u518d\u5ea6":5,"\u30d5\u30a1\u30a4\u30eb":1,"\u7e26\u306b":1,"\u6240\u5c5e":[2,1],"\u672a\u8a2d\u5b9a":1,"\u3042\u3044\u307e\u3044":1,"\u7def\u5ea6":1,"\u8a73\u7d30":[],"\u300cnull":5,"\u305f\u3060\u304d":[],"\u5927\u9805":1,"(new":1,"\u914d\u7f6e":1,"\u30b9\u30dd\u30c3\u30c8\u30bf\u30b0":[1,5,4],"\u5b58\u5728":[2,3,4,5],"\u73fe\u72b6":3,"\u5c02\u7528":2,"\u305f\u3089":[1,5],"\u30b7\u30e7\u30fc\u30c8\u30ab\u30c3\u30c8":5,"\u4eba\u6570":5,"\u305f\u3081":[1,3,5],"\u5730\u56f3\u4e0a":1,"\u30b3\u30fc\u30c9":[1,3],"\u9000\u52e4":[2,5],"\u66f8\u540d":5,"\u8a31\u5bb9":1,googlemapsapi:1,"\u4e00\u90e8":[1,5,4],"\u30ab\u30e1\u30e9\u30a2\u30a4\u30b3\u30f3":5,"\u975e\u8868":[1,4],"\u53ef\u80fd":[2,1,3,4,5],"\u30bf\u30a4\u30e0\u30be\u30fc\u30f3":[5,4],"\u30b5\u30a4\u30c8":[],nodata:5,"\u30eb\u30fc\u30c8":[2,1,5,4],"\u8aa4\u5dee":4,"\u66f8\u7de8":4,"\u30d6\u30eb\u30fc":5,"1\u30a2\u30ab\u30a6\u30f3\u30c8":2,"\u8aac\u660e":1,"\u4e00\u610f":2,"\u7d71\u4e00":5,"\u975e\u540c":1,"\u30ed\u30b0\u30a2\u30a6\u30c8":[1,5],"\u30e9\u30f3\u30c9\u30de\u30fc\u30af":[3,4,5],"\u9078\u3073":3,"\u30d5\u30a9\u30c8\u30e9\u30a4\u30d6\u30e9\u30ea":4,"\u78ba\u8a8d":[3,4,5],"\u30b5\u30dd\u30fc\u30c8":2,"\u5f85\u3064":1,"\u4fee\u6b63":[],"\u5207\u308a":[5,4],"\u53f3\u6a2a":1,"\u884c\u52d5":[2,1,5,4],"\u30b7\u30f3\u30b0\u30eb\u30b3\u30fc\u30c6\u30fc\u30b7\u30e7\u30f3":1,"\u8aad\u307f\u8fbc\u3081":4,"\u8a2d\u5b9a":[],gps:[5,4],"\u306a\u304a":1,"\u7d10\u3065\u3051\u308b":2,"\u958b\u3044":4,"\u308c\u307e\u305b":4,"\u901f\u5ea6":1,"\u305d\u306e\u5f8c":5,"\u3069\u3061\u3089\u304b":1,"\u304b\u307e":1,"\u307e\u304f\u3044\u304b":5,"\u65b0\u898f\u767b":4,ipad:4,"\u89e3\u6d88":1,aaa:[],"\u7a7a\u767d":1,"12\u6708":1,"\u9593\u9694":[2,5],"\u5831\u544a\u66f8":[],"\u8a18\u9332":[2,1,5,4],"\u7d50\u3070":2,"\u72b6\u614b":[1,3,4],"\u4e0a\u8a18":[1,3,5],"\u66ff\u308f\u3089":5,"\u8a72\u5f53":3,"\u4e00\u898b":5,"\u30a8\u30e9\u30fc":[1,5,4],"\u3044\u305f":1,"\u30c8\u30c3\u30d7\u30da\u30fc\u30b8":1,"\u5730\u540d":3,"\u5834\u5408":[],"\u5e83\u3052":1,"null":4,"\u304b\u3069\u3046":[2,1,3,4],"\u30ea\u30b9\u30c8":[1,5,4],"\u307e\u3067":[2,1,3,4,5],"\u307e\u3059":[],"\u307e\u305b":[2,1,3],"\u4e00\u89a7":[],"\u66f8\u7d4c":4,"\u307e\u305f":[1,5,4],"\u304b\u3089":[],"\u767b\u8a18":4,"\u307e\u3057":[1,3,4,5],"\u7279\u5b9a":[2,5,4],"\u9078\u629e":[],"\u5927\u5909":5,"\u30db\u30fc\u30e0\u30a2\u30a4\u30b3\u30f3":[],"\u30d0\u30c3\u30af\u30b0\u30e9\u30a6\u30f3\u30c9":[1,4],"\u51fa\u529b":[1,3],"\u6a5f\u80fd":[],"\u30a2\u30c3\u30d7\u30c7\u30fc\u30c8":[],"\u3089\u308c":5,"\u3060\u3055\u3044":[2,1,3,5],"\u5408\u308f\u305b":2,"\u5f53\u65e5":1,"\u9577\u3044":[5,4],"\u79fb\u52d5":[2,5,4],url:[5,4],"\u96fb\u91cf":2,"\u30b9\u30da\u30fc\u30b9":1,"\u5d29\u308c\u308b":4,"\u30a8\u30e9\u30fc\u30e1\u30c3\u30bb\u30fc\u30b8":5,"\u767a\u751f":5,"\u624b\u52d5":4,"\u64ae\u5f71":5,"\u30aa\u30fc\u30d0\u30fc":5,"\u305d\u306e\u9593":1,"\u672b\u5c3e":1,"\u30b9\u30dd\u30c3\u30c8\u30bf\u30b0\u30b0\u30eb\u30fc\u30d7":1,"\u672a\u5831":4,"\u5fc5\u9808":[5,4],"\u30b9\u30bf\u30c3\u30d5":2,"\u30ab\u30e1\u30e9":5,"\u3057\u304b":[2,1,3],"\u30de\u30eb\u30c1\u30a2\u30ab\u30a6\u30f3\u30c8":[2,5,4],"\u6210\u529f":4,"\u4ef6\u6570":1,"\u62c5\u5f53\u8005":[2,1,5,4],"\u4e00\u822c\u6a29\u9650":4,"\u73fe\u8c61":5,"\u8ffd\u52a0":[2,1,3,4,5],"\u3057\u305f":1,"\u5bfe\u8c61":[1,3],"\u5206\u3051":5,"\u3057\u3066":5,"\u30db\u30fc\u30e0":[3,4,5],"\u6700\u5927":[3,4,5],"\u30bf\u30a4\u30c8\u30eb":5,"\u6642\u306b":2,"\u306a\u308c":2,"\u201d&":4,"\u30c6\u30ad\u30b9\u30c8\u30d5\u30a3\u30fc\u30eb\u30c9":5,"\u306a\u308a":[],"\u306a\u308b":[1,5],"\u306b\u307e\u3068\u3081\u308b":1,"\u65b9\u6cd5":[1,3,5],"\u3092\u3054":1,"\u5206\u304b\u308a":1,"\u30c9\u30c3\u30c8":5,"\u5165\u308c":1,"\u3055\u3089\u306b":1,"\u30fb\u30e1\u30fc\u30eb":4,"\u30d7\u30c3\u30b7\u30e5":5,"\u4eca\u5f8c":3,"\u672a\u8aad":5,"\u624b\u6570":5,"\u305a\u307e\u3068\u3081\u3066":1,"\u62c5\u5f53":[2,1,5,4],"\u53c2\u52a0":[2,5],"\u7121\u3044":4,"\u5229\u7528":[],"\u6c7a\u3081":2,"\u7d50\u679c":[1,3,5],"\u6210\u6642":4,"\u898b\u308b":1,"\u30bf\u30a4\u30d7":1,"\u623b\u308b":[5,4],"\u64cd\u4f5c":[],"\u524d\u56de":4,"\u3064\u3051":5,"\u76ee\u4ee5\u964d":[5,4],"\u540d\u6761":5,"\u8ecc\u8de1":2,"\u4e0b\u90e8":3,"\u5b8c\u4e86":[1,5],"\uff08\u4f8b":[],"\u554f\u3044\u5408\u308f":2,"\u66f8\u8a73":4,"\u65b0\u898f":2,"\u5f93\u6765":[2,1,3],"\u7d39\u4ecb":5,"\u306b\u3064\u3044\u3066":[1,3],"\u4e00\u5ea6":4,"\u7ba1\u7406":[],"\u4f01\u696d":[2,5],"\u3067\u3057\u304b":5,"\u65e5\u4ed8":[1,4],ui:[1,4],"\u305d\u306e":[3,5],"\u7bc4\u56f2":[2,1,3,5],"\u30c0\u30a4\u30a2\u30ed\u30b0":5,"\u914d\u616e":1,"\u50ac\u4fc3":5,"\u66f8\u8a2d":1,"\u76f4\u8fd1":1,"\u4f4d\u7f6e":[],"\u610f\u898b":1,"\u3057\u306a\u304c\u3089":1,"\u3057\u3088":[1,5,4],"\u30b5\u30fc\u30d0\u30fc":5,"\u306a\u3069":[2,1],"\u304a\u308a":3,"\u534a\u5f84":[2,5],"\u500b\u4eba":4,"\u30bf\u30b0":1,"\u696d\u52d9":[2,1],"\u306a\u3063":[2,1,3,5],"\u5206\u5272":1,"\u77e5\u3089":1,img:[],"\u5165\u3063":1,"\u7686\u3055\u307e":3,"\u91d1\u984d":1,"\u306a\u3057":[1,3],"\u4e00\u76ee":1,"\u904e\u53bb":[1,5],"\u30ea\u30e2\u30fc\u30c8":3,"\u88dc\u6b63":4,"\u3068\u307b\u307c":4,"\u306a\u3044":[2,1,5,4],"\u628a\u63e1":2,"\u540c\u69d8":[1,3,5],"\u6b21\u56de":1,"\u6253\u523b":[2,1,3,4,5],"\u4eca\u56de":[1,5,4],"\u5931\u6557":[5,4],"\u533a\u5225":1,"\u4fdd\u5b58":5,"\u3002gps":2,"\u6df7\u5728":3,"\u671f\u5f8c":4,"\u66ff\u3048\u308b":5,"\u4ee5\u524d":[5,4],"\u6d88\u53bb":5,"\u66f8\u6bce":1,"\u30e1\u30e2\u30ea":4,"\u30ec\u30a4\u30a2\u30a6\u30c8":[1,5,4],"\u3068\u3044\u3046":[1,5],"\u7e2e\u5c3a":4,"\u95b2\u89a7":[],")\u300d":[5,4],figure:[],"\u753b\u50cf":[1,3,5],"\u521d\u671f\u5024":1,"\u30d1\u30b9\u30ef\u30fc\u30c9":[5,4],"\u30d5\u30a9\u30fc\u30de\u30c3\u30c8":[],applemap:4,"\u51fa\u52e4\u524d":2,"\u30ba\u30fc\u30e0\u30ec\u30d9\u30eb":5,"\u4ef6\u76ee":1,"\u8981\u671b":1,"\u9077\u79fb":[5,4],"\u672a\u9001\u4fe1":5,"\u554f\u984c":[1,5,4],"\u4e8b\u4f8b":5,"\u5168\u4f53":1,align:[],"\u6700\u9069":5,"\u30bf\u30c3\u30d7":[3,4,5],"\u4f4f\u6240":[1,5,4],"\u5236\u9650":[2,1,5,4],"\u691c\u7d22":[],"\u5165\u529b":[],"|homeicon":[],"\u7c21\u6613":5,"\u540c\u3058":[1,3,4,5],"\u3084\u3059\u304f\u3057":1,"\u5199\u771f":[1,5,4],"\u305b\u304f":2,"\u51fa\u52e4":[2,4],"\u4e00\u4f8b":[],"\u4f7f\u3048\u308b":1,"\u5fc5\u8981":[1,3],"\u5168\u9078":1,jpg:[],"\u30b8\u30aa\u30b3\u30fc\u30c7\u30a3\u30f3\u30b0":5,"\u76f4\u524d":1,googlemapssdk:4,"\u3069\u306e":2,"\u30bf\u30a4\u30df\u30f3\u30b0":[2,3,4],"\u5c65\u6b74":[2,1,3,4,5],id:2,"\u6628\u65e5":4,"\u52b9\u304b":4,"\u30aa\u30d5":5,"\u91cd\u306a\u3063":5,"\u3002)":5,"\u30b9\u30dd\u30c3\u30c8\u30b3\u30fc\u30c9":[5,4],"\u30b0\u30eb\u30fc\u30d7\u30b3\u30fc\u30c9":1,"\u306a\u304f":[2,1,3,5],"\u30aa\u30f3":[2,5],"\u5951\u7d04":[1,5],"\u30a2\u30d7\u30ea":[],"\u4e0d\u5177\u5408":[],"\u30ad\u30fc\u30ef\u30fc\u30c9":3,"\u3069\u3046":2,"\u8005\u540d":5,"\u5b89\u5b9a":4,"\u30e2\u30fc\u30c9":[2,5,4],"\u30fb\u6240\u5728\u5730":4,"\u306b\u3088\u3063\u3066":4,ios:[],"\u306b\u3088\u3089":3,"\u306b\u3088\u308a":[2,1],"\u53c2\u7167":[1,5,4],"\u7d4c\u7531":4,"\u8b66\u544a":1,"\u5834\u6240":[5,4],"\u7167\u6e96":5,"\u305d\u3057\u3066":5,"\u30b9\u30bf\u30a4\u30eb":5,"\u7d10\u4ed8":5,"\u5b89\u5b9a\u6027":4,"\u30b0\u30eb\u30fc\u30d7":[],"\u5404\u7a2e":1,"\u3084\u3059\u304f":[1,3],"\u30b1\u30fc\u30b9":[1,4],"\u30d5\u30a9\u30eb\u30c0":1,"\u6700\u5f8c":1,"\u8868\u793a":[2,1,3,4,5],"\u624b\u6301\u3061":[],"\u898b\u3048":5,googlemaps:[5,4],"\u904b\u7528":3,"\u81ea\u7531":1,"\u5b9a\u6642":2,"\u30ed\u30b8\u30c3\u30af":5,"\u30e9\u30b8\u30aa\u30dc\u30bf\u30f3\u30d5\u30a3\u30fc\u30eb\u30c9":5,"\u7121\u5236":4,"\u5171\u6709":2,"\u8efd\u5fae":[1,5],"\u3067\u304d\u308b":[],web:5,"\u4e92\u63db\u6027":4,"\u4f5c\u6210":[2,1,3,4,5],"\u958b\u59cb":[2,5],"\u30bd\u30fc\u30c8":[1,5,4],"\u898b\u8fbc\u307f":1,"\u64a4\u5ec3":3,"\u56de\u7d5e\u308a\u8fbc\u307f":5,"\u63a2\u3057":3,"\u7d4c\u8def":[3,4],app:4,"\u7d10\u3065\u304f":1,"\u3064\u3051\u308b":[],"\u7d4c\u5ea6":1,"\u542b\u3081":[1,5],"\u7c21\u7565":[1,3],"\u3060\u3044":1,"\u4f01\u696d\u6bce":2,"\u30c7\u30d0\u30a4\u30b9\u30c8\u30fc\u30af\u30f3":4,"\u756a\u53f7":[3,4,5],"\u304f\u3060":5,"\u30d0\u30ca\u30fc":1,"\u30d0\u30c3\u30af\u30ad\u30fc":5,"1\u90e8":1,"\u62bd\u51fa":1,"\u544a\u4e00":4,"\u30d0\u30c3\u30b8":5,"\u7701\u96fb\u91cf":[2,5,4],seekbar:5,"\u307e\u3068\u3081\u308b":1,"\u691c\u7d22\u5f8c":1,"\u30dd\u30c3\u30d7\u30a2\u30c3\u30d7":1,"\u6587\u5b57\u6570":5,"\u6b63\u3057\u304f":[1,5,4],"\u4ed5\u7d44":3,"\u4ee5\u5916":[5,4],"6plus":4,"\u30c7\u30d5\u30a9\u30eb\u30c8":[1,5,4],"\u306a\u304b\u3063":[1,3,5],"\u4e8b\u8c61":[5,4],"\u672a\u9078":[5,4],"\u6975\u529b":1,"\u307e\u3068\u3081\u3066":[1,5,4],"\u30a8\u30ea\u30a2":1,"\u30d0\u30fc":5,"\u30b7\u30b9\u30c6\u30e0":[2,1],".jpg":[],"\u521d\u3081":4,"\u904b\u55b6":1,"\u4f7f\u7528":[2,5,4],"\u9332\u5f8c":4,"\u30b3\u30e1\u30f3\u30c8":[1,3,4,5],scale:[],"\u304f\u308b":1,"\u8a73\u3057\u304f":1,"\u96e2\u308c":3,"\u8aad\u307f\u8fbc\u307f":[5,4],"\u30dc\u30bf\u30f3":[2,3,4,5],"\u69cb\u6210":5,"\u542b\u307e":5,"\u7d5e\u308a\u8fbc\u3080":[5,4],"\u30d0\u30b0":1,"\u57fa\u304d":1,"\u3042\u308c":[5,4],"\u306f\u3046":5,"\u3001\u300c":[1,5,4],"\u3042\u308a":[1,3,4,5],"\u3042\u308b":[2,1,5,4],"\u5f37\u5236":5,"\u6d88\u3048":5,"\u30b5\u30fc\u30d3\u30b9":5,"\u52e4\u52d9\u5148":4,"\u518d\u65b0":4,"\u6587\u8a00":[2,5],"\u30e1\u30f3\u30d0\u30fc":[2,1,5,4],"\u308f\u304b\u308b":1,"\u5168\u54e1":2,"\u6319\u52d5":[1,5],"\u9055\u3063":5,"\u624b\u9806":[1,3,5],"\u4e0b\u8a18":[3,5],"\u30c1\u30a7\u30c3\u30af":[1,5],"\u4ee5\u5185":2,"\u30e6\u30fc\u30b6\u30fc":[],"\u6b63\u3057\u3044":5,"\u5e30\u3063":1,"\u5185\u5bb9":5,"\u70b9\u691c":2,"\u5909\u66f4\u70b9":1,"\u3055\u3044":5,"\u6642\u523b":1,"\u9867\u5ba2":[2,1,3,4,5],"\u3057\u307e\u3059":3,"\u6570\u5b57":5,"\u6271\u3048":1,"\u4f55\u4eba":1,image:[],"\u8abf\u6574":[5,4],"\u3068\u3081\u3066":1,"\u898b\u308c\u308b":5,"\u3088\u308a":[1,5,4],"\u53f3\u4e0a":5,"\u9023\u7d61\u304f":2,"_homeicon":[],"\u5831\u544a":[],"\u554f\u3044\u5408\u308f\u305b":1,"\u6700\u521d":3,"\u9805\u76ee":[2,1,5,4],"..":[],"\u8907\u6570":[2,1,5],"\u9055\u3044":3,"\u7a2e\u5225":[2,1,5,4],"\u30d0\u30fc\u30b8\u30e7\u30f3":[3,4,5],"\u53ce\u307e\u308b":1,"\u306b\u3064\u3051\u308b":1,"\u521d\u671f\u8a2d":2,"\u30d5\u30ea\u30fc\u30ba":[5,4],"\u6291\u3048":2,"\u51fa\u3057":2,"\u62bc\u4e0b":[5,4],"\u30a2\u30e9\u30fc\u30c8":4,"\u30da\u30fc\u30b9\u30c8":1,"\u8a18\u8f09":1,"\u901a\u308a":1,"\u756a\u5730":4,"\u8a2d\u3051\u308b":2,"\u73fe\u5728":[1,3,4,5],"\u65b0\u8868\u793a":1,"\u5b9a\u671f":2,"\u534a\u89d2":1,"\u30e6\u30fc\u30b6\u30fc\u30b3\u30fc\u30c9":1,"\u30fb\u5168":1,"\u5730\u56f3":[2,1,3,4,5],"\u8868\u3059":1,"\u5165\u308b":[1,5],"\u5165\u308a":3,"\u306b\u5bfe\u3057":[2,5],"\u3068\u3057":[1,5],"\u3068\u3048":1,"\u30ed\u30b0\u30a4\u30f3":[2,1,5],"\u52d5\u304b":5,"\u66ff\u3048":[5,4],"\u8aad\u8fbc":5,"\u30e1\u30c3\u30bb\u30fc\u30b8":[1,5],"\u304a\u77e5\u3089":1,"\u5916\u3057":1,"\u9032\u3081":1,"\u6587\u5b57":[1,5,4],"\u8abf\u3079\u308b":1,"\u6c7a\u3081\u308b":2,"\u3060\u3063":5,"\u5099\u8003":[5,4],"\u3082\u3057\u304f":1,"\u52e4\u6020":1,"\u70b9\u7dda":4,"\u30e9\u30b8\u30aa\u30dc\u30bf\u30f3":5,"\u3054\u3068":1,"\u672a\u5165":4,"\u4f5c\u308a":1,"\u3054\u89a7\u304f":5,"\u30de\u30fc\u30af":5,"\u3059\u308c":3,"\u5f0a\u793e":[2,1],"\u305f\u3060\u3057":1,"\u5bfe\u5fdc":3,"\u7570\u306a\u308b":5,"\u7570\u306a\u308a":[2,3],"\u30b0\u30eb\u30fc\u30d7id":2,"\u4f1a\u793e":1,"\u672c\u6a5f\u80fd":3,"\u6574\u5408":1,"\u30cd\u30c3\u30c8\u30ef\u30fc\u30af":5,"\u306e\u307f":[2,1,5,4],"\u544a\u77e5":1,"\u5ba2\u69d8":[2,1],"\u3067\u3059":[2,1,3,5],"\u4ed8\u3051\u308b":2,"\u5439\u304d\u51fa\u3057":1,"\u4e00\u81f4":3,"\u30c7\u30fc\u30bf":[1,3,4,5],center:[],"\u4e0a\u9650":[1,5],"\u6307\u5b9a":[1,5,4],"\u30d5\u30a9\u30fc\u30ab\u30b9":5,"\u30ab\u30e9\u30fc\u30e9\u30d9\u30eb":1,"\u65b0\u3057\u3044":[1,5,4],"\u30c8\u30e9\u30c3\u30ad\u30f3\u30b0\u30c7\u30fc\u30bf":5,"\u305b\u308b":1,"\u5927\u304d\u304f":5,"\u3069\u304a\u308a":1,"\u3088\u3046":[],"\u30b5\u30fc\u30d0":4,"\u300d\u3001":[5,4],"\u5b9a\u7fa9":2,"\u300d\u300c":[2,3,4,5],"\u3059\u3079\u3066":2,"\u5f37\u5316":[],"5km":5,"\u30de\u30fc\u30ab\u30fc":5,"\u66f8\u691c":5,"\u5206\u5439":2,"\u307b\u304b":2,"\u4fdd\u6301":[1,5],"\u9078\u3079\u308b":1,"\u4ed6\u8efd":5,"\u6a29\u9650":[]},objtypes:{},objnames:{},filenames:["index","web","glossary","newFeature","ios","android"],titles:["\u30ea\u30ea\u30fc\u30b9\u30ce\u30fc\u30c8","\u7ba1\u7406\u30b5\u30a4\u30c8","\u7528\u8a9e\u96c6","\u6700\u65b0\u60c5\u5831","iOS","Android"],objects:{},titleterms:{"\u4e88\u5b9a":1,"\u767b\u9332":1,"\u4fee\u6b63":1,"\u5168\u822c":1,"\u30c0\u30a6\u30f3\u30ed\u30fc\u30c9":1,"\u753b\u9762":3,"\u7d30\u5206":3,"\u5834\u5408":3,"\u5831\u544a":[1,3],"2\u6708":[],"\u30a2\u30c3\u30d7\u30c7\u30fc\u30c8":5,"\u3067\u304d\u308b":3,"\u307e\u3059":3,"\u6a5f\u80fd":3,ver:[1,5,4],"\u30b9\u30dd\u30c3\u30c8a":3,"\u30b9\u30dd\u30c3\u30c8b":3,"\u7ba1\u7406":1,"\u901a\u77e5":1,"\u304b\u3089":3,"\u8a73\u7d30":3,"\u5909\u66f4":[1,3,4,5],"\u30b9\u30dd\u30c3\u30c8":[1,3],"\u4e2d\u65ec":[],"\u6700\u65b0":3,"\u95b2\u89a7":1,"\u6ce8\u610f":[3,5],"\u306a\u308a":3,"\u691c\u7d22":3,android:5,csv:1,"\u60c5\u5831":[1,3],"\u30ea\u30ea\u30fc\u30b9":1,"\u30d5\u30a3\u30fc\u30eb\u30c9":1,"\u30d5\u30a9\u30fc\u30de\u30c3\u30c8":1,"\u30ea\u30ea\u30fc\u30b9\u30ce\u30fc\u30c8":0,"\u4f4d\u7f6e":1,ios:4,"\u516c\u958b":1,"\u904b\u7528\u4e0a":3,"3\u6708":1,"\u30b9\u30c6\u30fc\u30bf\u30b9":1,"\u64cd\u4f5c":3,"\u3088\u3046":3,"\u30a2\u30d7\u30ea":3,"\u30d5\u30a9\u30fc\u30e0":3,"\u8a2d\u5b9a":1,"\u4e0d\u5177\u5408":1,"\u672b\u65e5":1,"\u4ed5\u69d8":1,"\u5229\u7528":3,"\u6a29\u9650":3,"\u30e6\u30fc\u30b6\u30fc":1,"\u6539\u5584":[1,3,4,5],"\u4e00\u62ec":1,"\u5831\u544a\u66f8":1,"\u5f37\u5316":3,"\u30c1\u30a7\u30c3\u30af\u30a4\u30f3":3,"\u9078\u629e":3,"\u3067\u3082":3,"\u5165\u529b":3,"\u7528\u8a9e\u96c6":2,"\u4e00\u89a7":1,"\u30b5\u30a4\u30c8":1,"\u30b7\u30fc\u30f3":3,"\u30b0\u30eb\u30fc\u30d7":1}})

diff --git a/web.html b/web.html
@@ -84,7 +84,7 @@
 <h4>スポット<a class="headerlink" href="#id4" title="このヘッドラインへのパーマリンク">¶</a></h4>
 <ul>
 <li><p class="first">複数のスポットタグを１つのグループ（スポットタググループ）にまとめることができるようになります。</p>
-<p><a class="reference internal" href="_images/spottag_groups.jpg"><img alt="スポットタグのグループ化" src="_images/spottag_groups.jpg" style="width: 418.8px; height: 386.4px;" /></a></p>
+<p><a class="reference internal" href="_images/spottag_groups.jpg"><img alt="スポットタグのグループ化" src="_images/spottag_groups.jpg" style="width: 409.8px; height: 377.4px;" /></a></p>
 <ul class="simple">
 <li>たとえば、見込み顧客というタグをエリアごとに設定している場合には「見込み顧客」というスポットタググループを作り、まとめることができます。</li>
 <li>管理サイトやアプリでスポットを検索する際に、タグを一つずつ選択するのではなく、スポットタググループで検索できるようになります。</li>
@@ -93,7 +93,8 @@
 </ul>
 <div class="admonition note">
 <p class="first admonition-title">注釈</p>
-<p class="last">スポットを作成する際には、従来どおり１つずつスポットタグを指定する必要があります。</p>
+<p>スポットタグは１つのスポットタググループにしか含めることができません。</p>
+<p class="last">また、スポットを作成する際には、従来どおり１つずつスポットタグを指定する必要があります。</p>
 </div>
 </div>
 <div class="section" id="id5">
